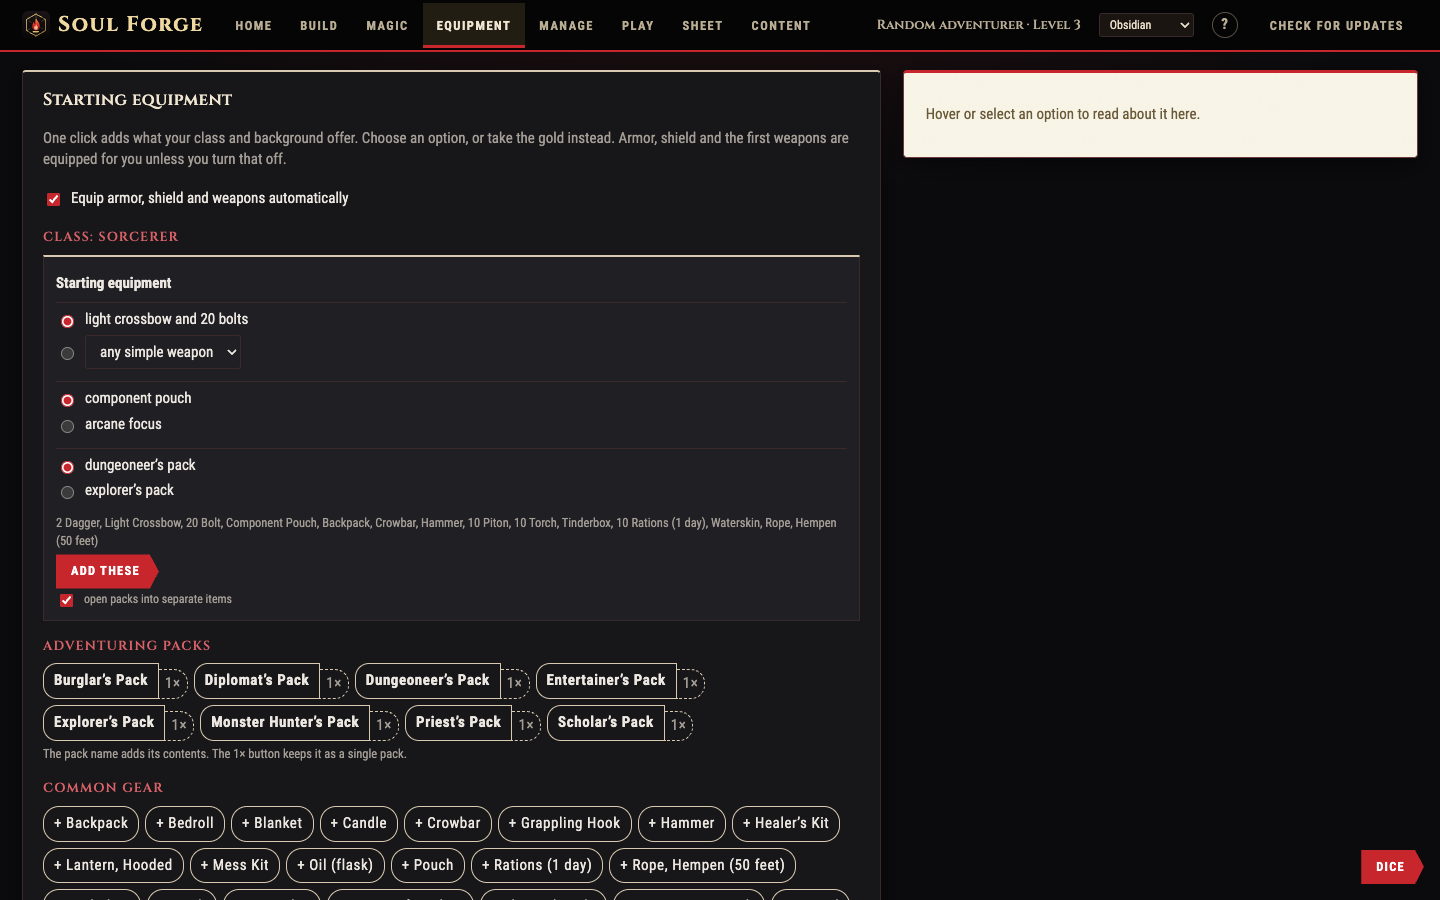
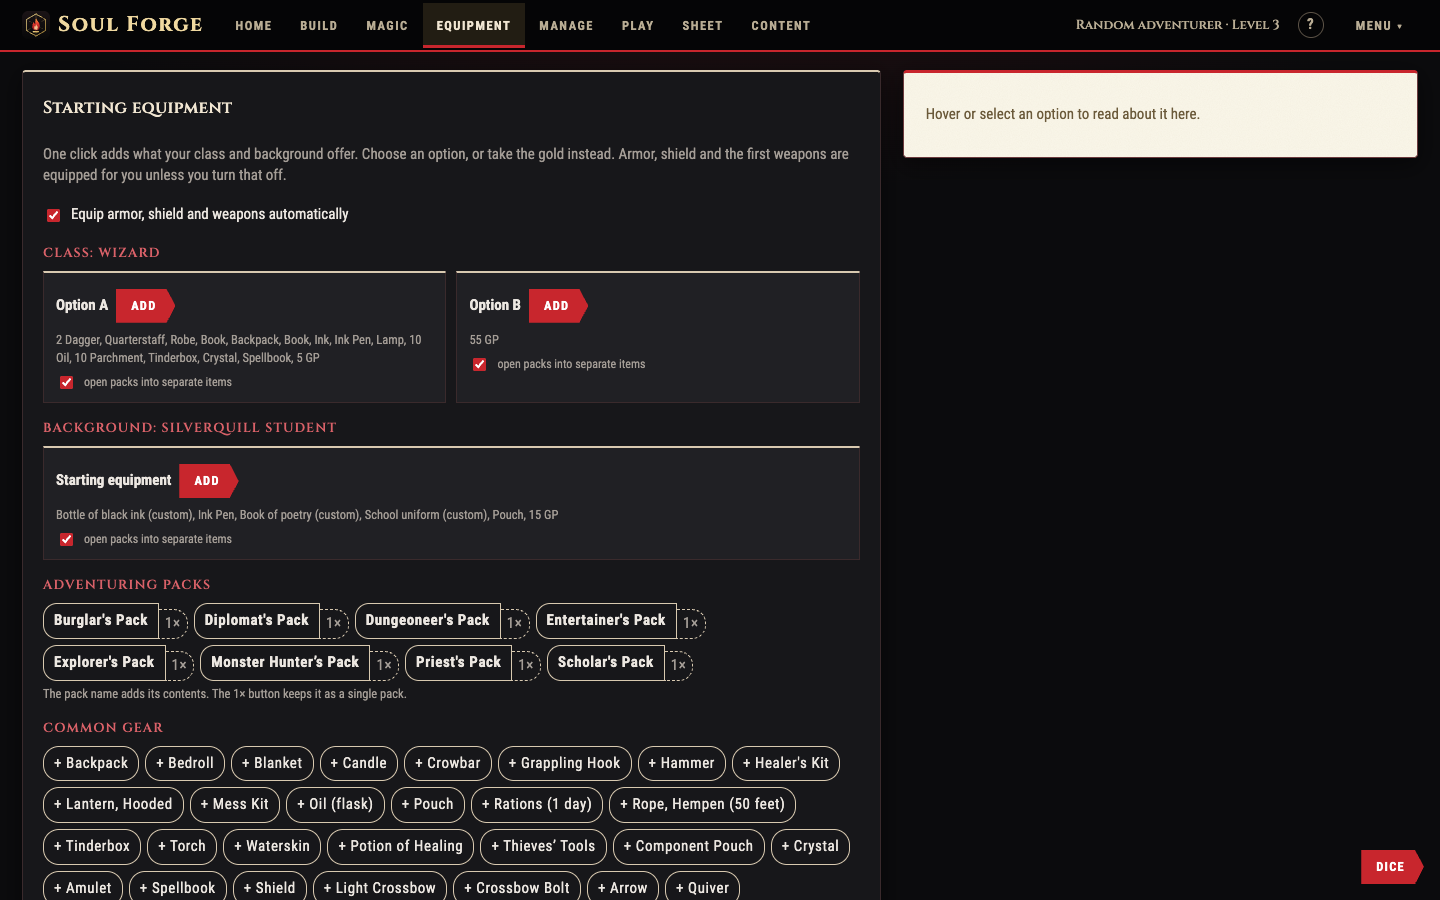
Refresh screenshots for v0.6.5

Changed region(s): [[0.0312, 0.0933, 0.5938, 1.0], [0.625, 0.0, 0.9688, 0.0311], [0.3125, 0.3733, 0.4375, 0.4356]]

diff --git a/README.md b/README.md
@@ -46,10 +46,11 @@ Original code, not affiliated with Aurora Builder or Wizards of the Coast.
 |---|---|
 | ![Home](docs/screenshots/home.png) Home | ![Build](docs/screenshots/build.png) Build |
 | ![Magic](docs/screenshots/magic.png) Magic | ![Equipment](docs/screenshots/equipment.png) Equipment |
-| ![Manage](docs/screenshots/manage.png) Manage | ![Sheet](docs/screenshots/sheet.png) Export |
-| ![Content](docs/screenshots/content.png) Content | ![Dice](docs/screenshots/dice.png) Dice |
-| ![Printed book theme](docs/screenshots/theme-parchment.png) Printed book | ![Tools blue theme](docs/screenshots/theme-tools.png) Tools blue |
-| ![Daylight theme](docs/screenshots/theme-daylight.png) Daylight | |
+| ![Play spells](docs/screenshots/play-spells.png) Play: spells | ![Resources](docs/screenshots/play-resources.png) Play: resources |
+| ![Manage](docs/screenshots/manage.png) Manage | ![Dice](docs/screenshots/dice.png) Dice tray |
+| ![Export](docs/screenshots/sheet.png) Export | ![PDF sheet](docs/screenshots/pdf-sheet.png) The PDF sheet, laid out like the official one |
+| ![Content](docs/screenshots/content.png) Content | ![Printed book theme](docs/screenshots/theme-parchment.png) Printed book theme |
+| ![Tools blue theme](docs/screenshots/theme-tools.png) Tools blue theme | ![Daylight theme](docs/screenshots/theme-daylight.png) Daylight theme |
 
 ## Install
 
